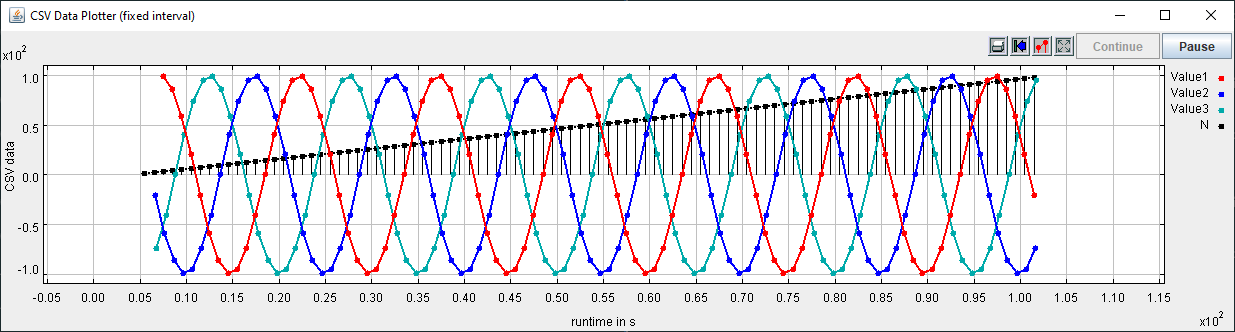
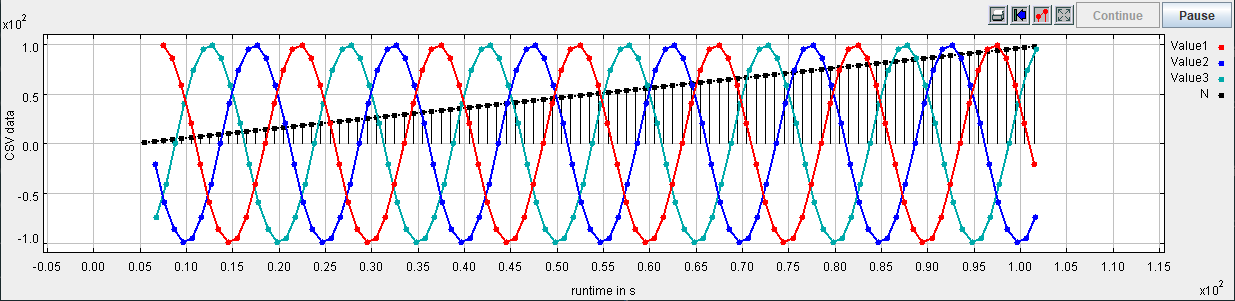
Update documentation

diff --git a/docs/examples.rst b/docs/examples.rst
@@ -1,33 +1,22 @@
 Prerequisites
 =============
 
-Required Lablink resources
---------------------------
+The examples run with Docker Compose.
+These images are published on Docker Hub and are pulled automatically:
 
-The following Lablink resources are required:
+* ``ait1/lablink-config-server:latest``
+* ``ait1/lablink-datapoint-bridge:latest``
+* ``ait1/lablink-plotter:latest``
+* ``ait1/lablink-csv-client:latest``
 
-* `Configuration Server <https://ait-lablink.readthedocs.io/projects/lablink-config-server>`_: *config-0.0.1-jar-with-dependencies.jar*
-* `Datapoint Bridge <https://ait-lablink.readthedocs.io/projects/lablink-datapoint-bridge>`_: *dpbridge-0.0.1-jar-with-dependencies.jar*
-* `Lablink Plotter <https://ait-lablink.readthedocs.io/projects/lablink-plotter>`_: *plotter-0.0.1-jar-with-dependencies*
+Both examples publish the configuration server on port ``10101`` and the plotter on port ``8080``, so run only one of them at a time.
 
-When :doc:`building from source <installation>`, the corresponding JAR files will be copied to directory *target/dependency*.
+The stacks share :github_blob:`test-config.db <examples/config/test-config.db>` and :github_blob:`mosquitto.conf <examples/config/mosquitto.conf>`.
+Inside the containers the broker host is ``mqtt`` and the configuration server host is ``lablink-config``.
 
-
-Starting the configuration server
----------------------------------
-
-Start the configuration server by executing script :github_blob:`run_config.cmd <examples/0_config/run_config.cmd>` in subdirectory :github_tree:`examples/0_config`.
-This will make the content of database file *test-config.db* available via http://localhost:10101.
-
-.. note:: Once the server is running, you can view the available configurations in a web browser via http://localhost:10101.
+.. note:: Once a stack is running, the available configurations are listed at http://localhost:10101.
 
 .. seealso:: A convenient tool for viewing the content of the database file (and editing it for experimenting with the examples) is `DB Browser for SQLite <https://sqlitebrowser.org/>`_.
-
-
-MQTT broker
------------
-
-An **MQTT broker** is required for running the example, for instance `Eclipse Mosquitto <https://mosquitto.org/>`_ or `EMQ <http://emqtt.io/>`_.
 
 
 Example 1: Fixed interval data source
@@ -51,20 +40,21 @@ The CSV data looks like this:
    58.8,-99.5,40.7,6
    ...
 
-When sent to the plotter, the CSV client's output looks like this:
+The example setup is configured via the Compose file at :github_blob:`examples/1_fixed_interval/docker-compose.yml <examples/1_fixed_interval/docker-compose.yml>`.
+Using a local clone of the repository, change to folder `examples/1_fixed_interval` and run:
+
+.. code-block:: bash
+
+   docker compose up
+
+This starts Mosquitto, the configuration server, the datapoint bridge, the CSV client, and the plotter.
+
+The plotter window is accessible at http://localhost:8080.
+The measurements are plotted as a function of time, see below for the plotter view.
 
 .. image:: img/csv-client-example1.png
    :align: center
    :alt: Plotter view of CSV client output (example 1).
-
-All relevant scripts can be found in subdirectory :github_tree:`examples/1_fixed_interval`.
-To run the example, execute all scripts either in separate command prompt windows or by double-clicking:
-
-* :github_blob:`csv-fixed-interval.cmd <examples/1_fixed_interval/csv-fixed-interval.cmd>`: runs the CSV client, which will send data to the plotter
-* :github_blob:`dpb.cmd <examples/1_fixed_interval/dpb.cmd>`: runs the data point bridge service, connecting the CSV client and the plotter
-* :github_blob:`plot.cmd <examples/1_fixed_interval/plot.cmd>`: runs the plotter, which will plot incoming data to the screen
-
-.. note:: The scripts can be started in arbitrary order.
 
 
 Example 2: Timed data source
@@ -94,16 +84,17 @@ When sent to the plotter, the CSV client's output looks like this:
    :align: center
    :alt: Plotter view of CSV client output (example 2).
 
-.. note:: 
+.. note::
    The plotted results from both examples may look very similar at first glance.
    However, if you take a closer look you will notice that in the 2nd example the measurements are not received at a fixed rate.
    This difference becomes obvious when you run the examples and watch the measurements being plotted in real time.
 
-All relevant scripts can be found in subdirectory :github_tree:`examples/2_time_variant`.
-To run the example, execute all scripts either in separate command prompt windows or by double-clicking:
+The Compose file is :github_blob:`examples/2_time_variant/docker-compose.yml <examples/2_time_variant/docker-compose.yml>`.
+From :github_tree:`examples/2_time_variant`:
 
-* :github_blob:`csv-time-variant.cmd <examples/2_time_variant/csv-time-variant.cmd>`: runs the CSV client, which will send data to the plotter
-* :github_blob:`dpb.cmd <examples/2_time_variant/dpb.cmd>`: runs the data point bridge service, connecting the CSV client and the plotter
-* :github_blob:`plot.cmd <examples/2_time_variant/plot.cmd>`: runs the plotter, which will plot incoming data to the screen
+.. code-block:: bash
 
-.. note:: The scripts can be started in arbitrary order.
+   docker compose up
+
+This starts Mosquitto, the configuration server, the datapoint bridge, the CSV client, and the plotter.
+The plotter window is at http://localhost:8080.

diff --git a/docs/configuration.rst b/docs/configuration.rst
@@ -27,14 +27,15 @@ Client configuration
 
   Configuration parameters for dispatch type ``TIME_VARIANT`` (timed data source):
 
-  :*StartFromDataTime*: When starting the client, this timestamp will be considered the starting time.
-    This means that no data entries with timestamps prior to this time will be sent. Data entries with timestamps occuring afterwards will scheduled relative to this timestamp.
-    The timestamp must be fomatted according to configuration parameter *DatetimeFormat*.
-  :*EndAtDataTime*:
-    No data entries with timestamps later than this timestamp will be sent.
-    The timestamp must be fomatted according to configuration parameter *DatetimeFormat*.
+  Only the time difference between two consecutive timestamps of the same series is used.
+  The first measurement of a series is sent after *StartAfter*.
+  Each following measurement is sent after that time difference, divided by *ScaleFactor*.
+
+  :*StartFromDataTime*: present in the configuration together with *EndAtDataTime* and *DatetimeFormat*.
+    These values are not applied when the CSV data is loaded or when measurements are sent.
+  :*EndAtDataTime*: see *StartFromDataTime*.
   :*DatetimeFormat*:
-    `date and time format <https://www.w3.org/TR/NOTE-datetime>`__ for configuration parameters *StartFromDataTime* and *EndAtDataTime*
+    `date and time format <https://www.w3.org/TR/NOTE-datetime>`__ associated with *StartFromDataTime* and *EndAtDataTime*.
 
 .. topic:: General client configuration parameters
 
@@ -67,8 +68,8 @@ Measurements configuration
   Measurements configuration parameters for dispatch type ``TIME_VARIANT`` (timed data source):
 
   :*ColName*: name of a series of measurements in the CSV source of the form ``<device-name>.<datapoint-name>``
-  :*ScaleFactor*: The time intervals between two consecutive measurements are determined by the associated timestamps in the CSV source.
-    This configuration parameter allows to scale these time intervals (optional, default: ``1``).
+  :*ScaleFactor*: divides the time difference between two consecutive timestamps of this series (optional, default: ``1``).
+    Only that time difference is relevant.
 
 
 Example configuration

diff --git a/docs/installation.rst b/docs/installation.rst
@@ -1,5 +1,8 @@
+Installation
+============
+
 Maven
-=====
+-----
 
 The Lablink CSV client's compiled Java package is available on the |MCR|_.
 Use it in your local Maven_ setup by including the following dependency into your *pom.xml*:
@@ -9,13 +12,13 @@ Use it in your local Maven_ setup by including the following dependency into you
    <dependency>
      <groupId>at.ac.ait.lablink.clients</groupId>
      <artifactId>csvclient</artifactId>
-     <version>0.0.1</version>
+     <version>0.0.2</version>
    </dependency>
 
 .. note:: You may have to adapt this snippet to use the latest version, please check the |MCR|_.
 
 Building from source
-====================
+--------------------
 
 Installation from source requires a local **Java Development Kit** installation, for instance the `Oracle Java SE Development Kit 13 <https://www.oracle.com/technetwork/java/javase/downloads/index.html>`_ or the `OpenJDK <https://openjdk.java.net/>`_.
 
@@ -27,8 +30,20 @@ Check out the project and compile it with Maven_:
    cd lablink-csv-client
    mvnw clean package
 
-This should create JAR file *csvlient-<VERSION>-jar-with-dependencies.jar* in subdirectory *target/assembly*.
-Also, all additional Lablink resources needed for running the :doc:`examples <examples>` will be copied to directory *target/dependency*.
+This should create JAR file *csvclient-<VERSION>-jar-with-dependencies.jar* in subdirectory *target/assembly*.
+
+Docker image
+------------
+
+A ready-to-run image is published on `Docker Hub <https://hub.docker.com/r/ait1/lablink-csv-client>`_ as ``ait1/lablink-csv-client:latest``:
+
+.. code-block:: winbatch
+
+   docker pull ait1/lablink-csv-client:latest
+
+See :doc:`here <running>` for how to start the container.
+Building the image locally with :github_blob:`docker/build.cmd <docker/build.cmd>` tags the result with the same name.
+
 
 .. |MCR| replace:: Maven Central Repository
 .. _MCR: https://search.maven.org/artifact/at.ac.ait.lablink.clients/csvclient

diff --git a/docs/running.rst b/docs/running.rst
@@ -10,3 +10,26 @@ For example, on Windows this could look something like this:
    SET CONFIG_FILE_URI=%LLCONFIG%ait.test.csvclient.fixed.config
    SET LOGGER_CONFIG=-Dlog4j.configurationFile=%LLCONFIG%ait.all.all.log4j2
    java.exe %LOGGER_CONFIG% -jar path\to\csvclient-<VERSION>-jar-with-dependencies.jar -c %CONFIG_FILE_URI%
+
+Running with Docker
+===================
+
+The image ``ait1/lablink-csv-client:latest`` (see :doc:`installation`) starts the client with ``-c`` set to ``${LLCONFIG}${CSV_CONFIG}``.
+The defaults are ``LLCONFIG=http://lablink-config:10101/get?id=`` and ``CSV_CONFIG=lablink-csvclient.config``, so the image expects a configuration server reachable as the host ``lablink-config``.
+Override both variables to point at another server.
+``MEMORY_FLAG`` is the JVM heap setting and defaults to ``-Xmx512m``.
+``LOGGER_ID`` is the logging configuration id and defaults to ``ait.all.log4j2``.
+
+On Windows, a configuration server on the host is reachable as ``host.docker.internal``:
+
+.. code-block:: winbatch
+
+   docker run --rm -e LLCONFIG=http://host.docker.internal:10101/get?id= -e CSV_CONFIG=ait.test.csvclient.fixed.config ait1/lablink-csv-client:latest
+
+On Linux, add that hostname explicitly:
+
+.. code-block:: bash
+
+   docker run --rm --add-host=host.docker.internal:host-gateway -e LLCONFIG=http://host.docker.internal:10101/get?id= -e CSV_CONFIG=ait.test.csvclient.fixed.config ait1/lablink-csv-client:latest
+
+Arguments after the image name are passed through to the client.

diff --git a/docs/dispatch-modes.rst b/docs/dispatch-modes.rst
@@ -23,7 +23,9 @@ Timed data source
 =================
 
 The data from the CSV source uses a dedicated format (see `below <#supported-csv-formats-for-timed-data-sources>`_), providing data values associated to timestamps, which are sent one-by-one as individual measurements.
-The timing of the measurements is determined by the timestamps associated to each data value.
+Only the time difference between two consecutive timestamps of the same series is used.
+The first measurement of a series is sent after the delay given by ``StartAfter``.
+Each following measurement is sent after that time difference, divided by ``ScaleFactor``.
 
 .. note:: This dispatch mode is enable by setting configuration parameter ``DispatchType`` to ``TIME_VARIANT``. 
 
@@ -40,6 +42,7 @@ All entries with the same ``<device-name>`` and ``<datapoint-name>`` belong to a
 When selecting a series of measurements as output for the CSV client, it has to be referred to as  ``<device-name>.<datapoint-name>`` in parameter ``ColName`` in the `measurements configuration <configuration.html#measurements-configuration>`__.
 
 The timestamps have to be provided in `Unix time <https://en.wikipedia.org/wiki/Unix_time>`__.
+The difference of two consecutive timestamps is the delay in milliseconds.
 
 .. seealso:: An **example** for a **timed data source** can be found `here <examples.html#example-2-timed-data-source>`__.
 
